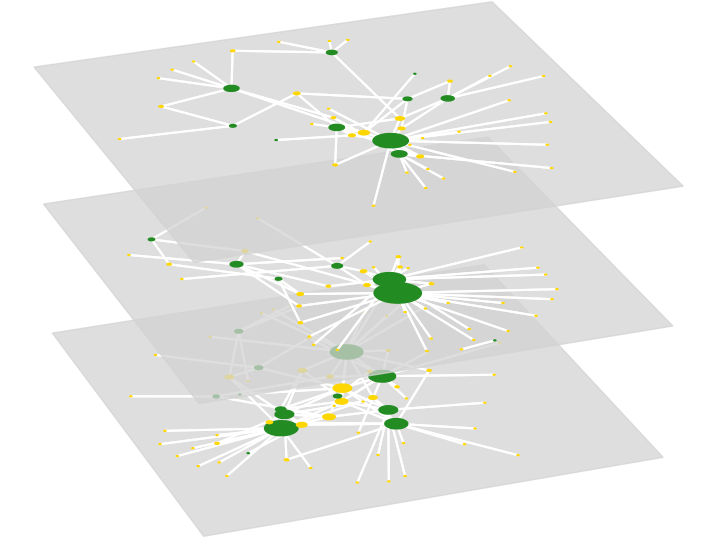
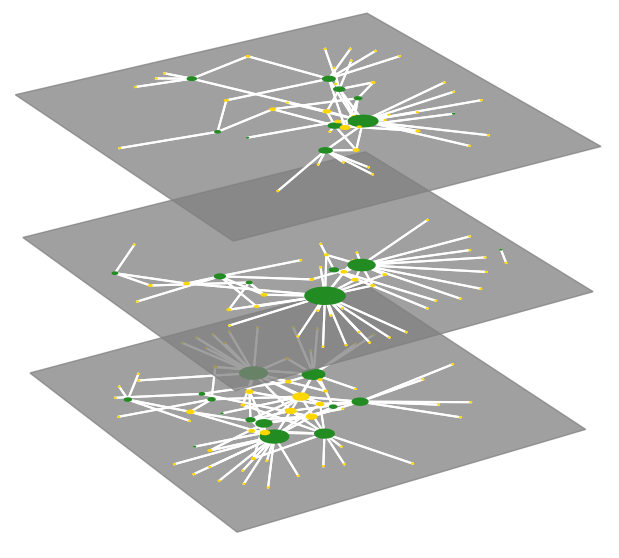
Update network diagram colors

diff --git a/multlyr_ntwrk.py b/multlyr_ntwrk.py
@@ -107,6 +107,6 @@ if __name__ == "__main__":
                       nodeLabelRule={},
                       nodeColorDict=PP_NODE_COLOR,
                       nodeSizeRule={"rule":"degree", "propscale":0.05},
-                      defaultLayerColor="lightgray",
+                      defaultLayerColor="gray",
                       defaultEdgeColor='white',
                       layerLabelRule={})
